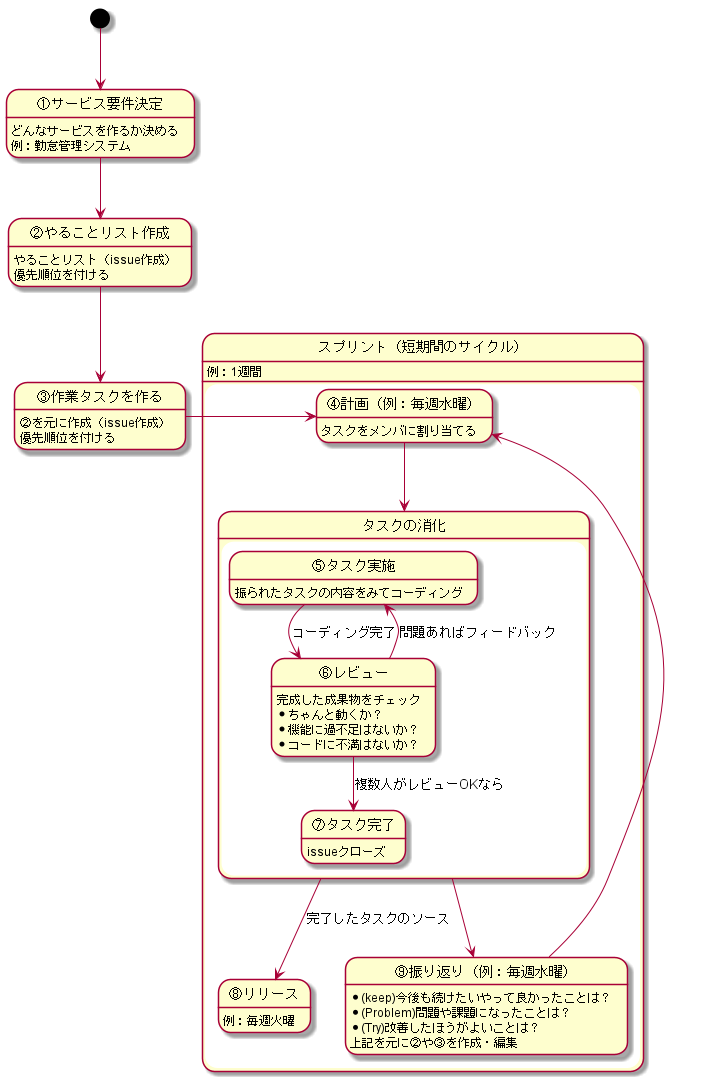
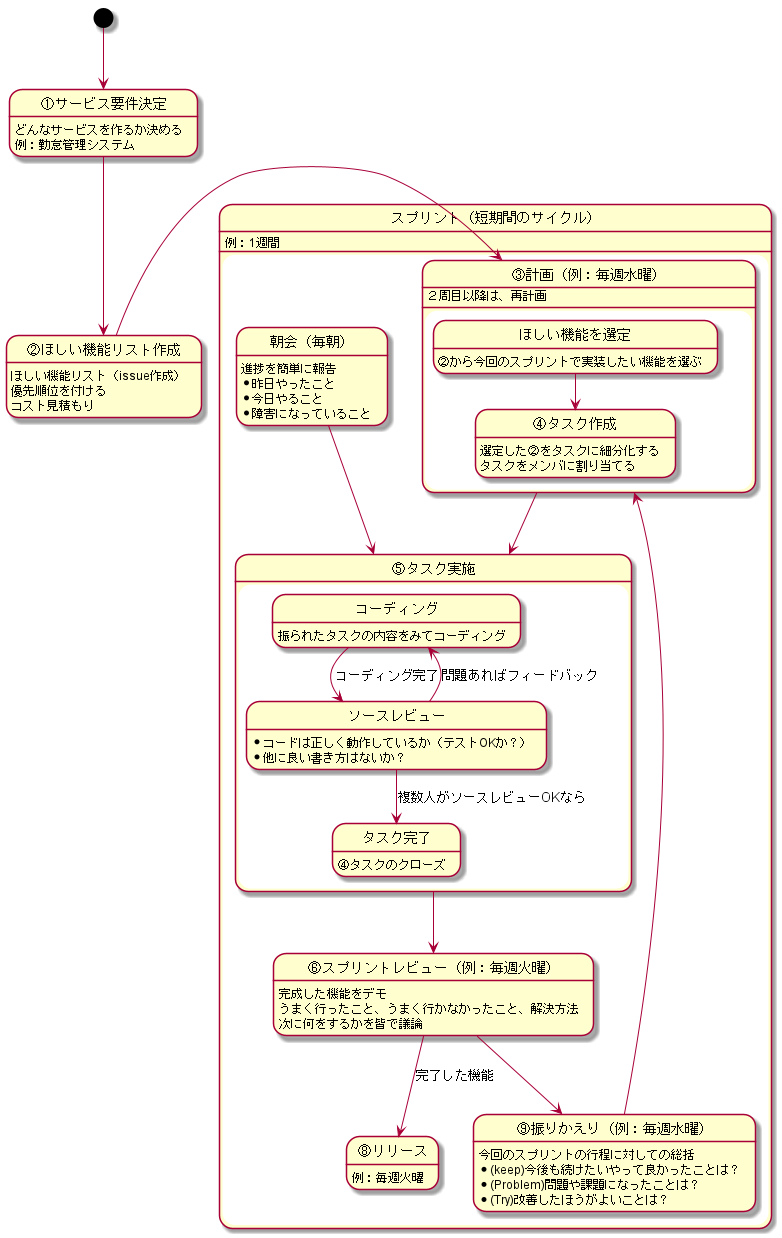
フロー修正

diff --git a/.github/ISSUE_TEMPLATE/pbi.md b/.github/ISSUE_TEMPLATE/pbi.md
@@ -1,0 +1,36 @@
+---
+name: ほしい機能
+about: ほしい機能テンプレート
+title: ""
+labels: 'P'
+assignees: ''
+
+---
+
+# 概要
+
+# 詳細
+
+# コスト見積もり
+- [ ] ★★★★★★★★
+- [ ] ★★★★★
+- [ ] ★★★
+- [ ] ★★
+- [ ] ★
+
+# 優先順位
+- [ ] 高 ★★★
+- [ ] 中 ★★
+- [ ] 低 ★
+
+# タスク
+- [ ] 細かいタスクに分解できているなら書き出す
+
+# レビュー結果
+
+
+# 完成の定義
+- [ ] コードレビューが完了している
+- [ ] リリースされている
+
+# 参考

diff --git a/.github/ISSUE_TEMPLATE/sbi.md b/.github/ISSUE_TEMPLATE/sbi.md
@@ -1,0 +1,18 @@
+---
+name: 作業タスク
+about: 作業タスクテンプレート
+title: ""
+labels: 'S'
+assignees: ''
+
+---
+# 要望ID
+
+# 概要
+
+# 詳細
+
+# 詳細タスク
+- [ ] 細かいタスクに分解できているなら書き出す
+
+# 参考

diff --git a/.github/PULL_REQUEST_TEMPLATE.md b/.github/PULL_REQUEST_TEMPLATE.md
@@ -1,0 +1,6 @@
+
+# チェック内容
+- [ ] ちゃんと動くか？
+- [ ] 機能に過不足はないか？
+- [ ] コードに不満はないか？
+
